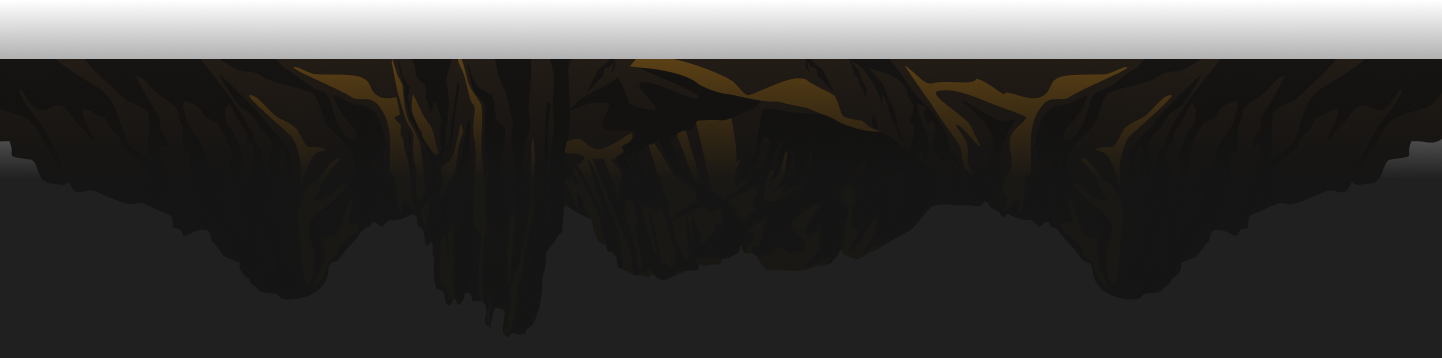
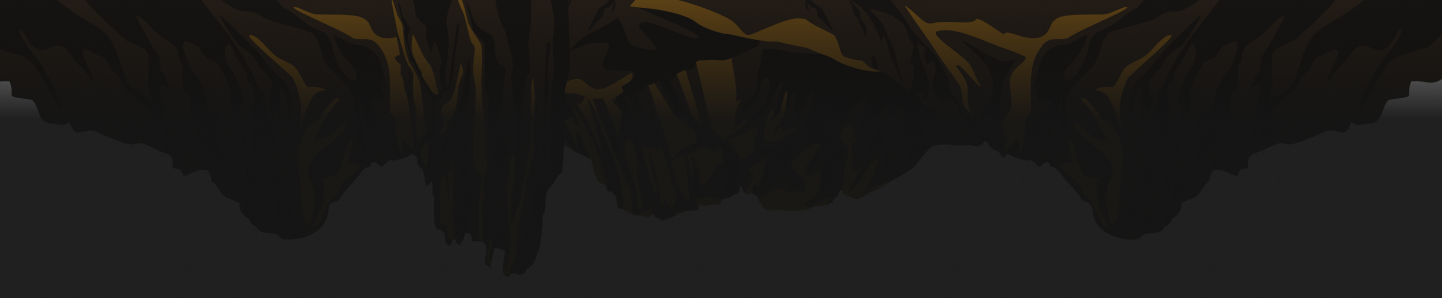
mountain png fade + footer fix

diff --git a/src/components/Homepage.jsx b/src/components/Homepage.jsx
@@ -4,7 +4,7 @@ import Left from "./homepageVector/Left"
 import Right from "./homepageVector/Right"
 import "../style/homepage.css";
 import Background from "./homeBg.jsx"
-import mountains from "../assets/hpmountains.png";
+import mountains from "../assets/mountains.png";
 import Variant1 from "../assets/Variant1.png";
 import Variant2 from "../assets/Variant2.png";
 
@@ -14,15 +14,14 @@ const HomePage = () => {
         <div className="relative w-full h-full">
         <Background />
             <div className="overflow-hidden flex flex-col items-center justify-center text-center -mb-[16px] relative min-h-screen px-4 sm:px-6 lg:px-8">
-                <img src={mountains} alt="mountains" className="mountain-glow" />
                 <Right className="absolute right-[-50px] sm:right-[-100px] top-20 sm:top-40 size-[150px] sm:size-[200px] lg:size-[250px] glow-svg blink" style={{transform: "rotate(-180deg)"}}/>
                 <Left className="absolute left-0 top-20 sm:top-40 size-[150px] sm:size-[200px] lg:size-[250px] glow-svg blink"/>
                 <Laptop className="absolute left-10 sm:left-20 lg:left-40 -top-10 sm:-top-20 size-[150px] sm:size-[200px] lg:size-[250px] glow-svg blink" style={{transform: "rotate(-9deg)"}} />
                 <Headset className="absolute right-5 sm:right-10 lg:right-20 -top-10 sm:-top-20 size-[175px] sm:size-[225px] lg:size-[275px] glow-svg blink" style={{transform: "rotate(15deg)"}}/>
 
                 <div className="relative flex flex-col justify-center items-center align w-full max-w-[690px] -mt-10 sm:-mt-20">
-                    <div className="text-white text-lg sm:text-xl lg:text-2xl mb-6 sm:mb-8 w-[120px] sm:w-[150px]">
-                      <section className="italic mb-0" style={{fontFamily: "Area Extended, sans-serif", fontWeight: 300}}>  ISTE-VIT </section>
+                    <div className="text-white text-lg md:mt-12 sm:text-xl lg:text-2xl mb-6 sm:mb-8 w-[120px] sm:w-[150px]">
+                      <section className="italic md:mt-24 mb-0" style={{fontFamily: "Area Extended, sans-serif", fontWeight: 300}}>  ISTE-VIT </section>
                         <span style={{fontFamily: "Area Extended, sans-serif", fontWeight: 700}}>Presents</span>
                     </div>
                     <div>
@@ -56,10 +55,16 @@ const HomePage = () => {
                         >
                             {/* REGISTER <ArrowRight className="w-6 h-6 sm:w-8 sm:h-8 lg:w-9 lg:h-9 ml-2" strokeWidth={3}/> */}
                         </a>
-                        
+                       
                     </div>
                 </div>
             </div>
+            <div className="w-full p-0 m-0">
+                         <img src={mountains} alt="mountains" className="mountain-glow" />
+                         </div>
+                        <div className="w-full h-24 bg-[linear-gradient(to_bottom,rgb(17,17,17),rgb(17,17,17),rgb(16,16,16),rgb(15,15,15),rgb(14,14,14),rgb(13,13,13),rgb(12,12,12),rgb(12,12,12),rgb(12,12,12),rgb(12,12,12),rgb(6,6,6),rgb(6,6,6),rgb(4,4,4),rgb(0,0,0),rgb(0,0,0))] bg-blend-multiply"></div>
+
+
             </div>
         
     )

diff --git a/src/components/tracks.jsx b/src/components/tracks.jsx
@@ -95,14 +95,14 @@ const  Tracks = () => {
     <Background>
         <section className="relative w-screen overflow-hidden text-white min-h-screen">
           {/* Mountains at the top */}
-          <img 
+          {/* <img 
             src={tmountains} 
             alt="mountains" 
             className="absolute top-0 left-0 w-full h-auto z-20 mountain-glow-tracks" 
-          />
+          /> */}
           <div
             className="relative z-10 pb-10 md:pb-20 px-6 md:px-8 flex flex-col items-center tracks-bg"
-            style={{ paddingTop: "380px" }}
+            style={{ paddingTop: "10px" }}
           >
           <h2
             className="text-4xl md:text-6xl font-[Camood] glow text-center"

diff --git a/src/style/tracks.css b/src/style/tracks.css
@@ -8,11 +8,11 @@
   position: absolute;
   top: 0;
   left: 0;
-  width: 100%;
-  height: auto;
+  width: 100vw;
+  height: 80vh;
   object-fit: contain;
   object-position: top;
-  mask: linear-gradient(to bottom, black 0%, black 70%, transparent 100%);
-  -webkit-mask: linear-gradient(to bottom, black 0%, black 70%, transparent 100%);
-  z-index: 20;
+  /* mask: linear-gradient(to bottom, black 0%, black 70%, transparent 100%);
+  -webkit-mask: linear-gradient(to bottom, black 0%, black 70%, transparent 100%); */
+  z-index: 30;
 }

diff --git a/src/style/homepage.css b/src/style/homepage.css
@@ -14,11 +14,9 @@
 }
 
 .mountain-glow {
-  position: absolute;
-  bottom: -80px;
-  left: 0;
-  width: 100vw;
-  height: 60vh;
+  margin-top: -40px;
+  width: 100%;
+  height: auto;
   object-fit: cover;
   object-position: bottom;
   mask: linear-gradient(to top, black 0%, black 70%, transparent 100%);
@@ -90,7 +88,7 @@
   color: #C28F3F !important;
   text-shadow: none !important;
   position: relative;
-  z-index: 50;
+  z-index: 10;
   pointer-events: auto;
   cursor: pointer;
 }

diff --git a/src/components/homeBg.jsx b/src/components/homeBg.jsx
@@ -44,7 +44,7 @@ const Background = () => {
       </div>
       
       <div
-        className="absolute bottom-0 left-0 w-full h-96 -z-10 blur-3xl opacity-80 transition-colors duration-200"
+        className="absolute bottom-0 left-0 w-full h-[600px] -z-10 blur-3xl opacity-80 transition-colors duration-200"
         style={{
           background: `linear-gradient(to top, #28184a, transparent)`,
         }}

diff --git a/src/components/Footer.jsx b/src/components/Footer.jsx
@@ -98,7 +98,7 @@ const Footer = () => {
     <img
         src="/iste.png"
         alt="Decorative"
-        className="left-0 w-[20%] h-auto"
+        className="left-0 w-full h-auto"
     />
     </div>
     </footer>
